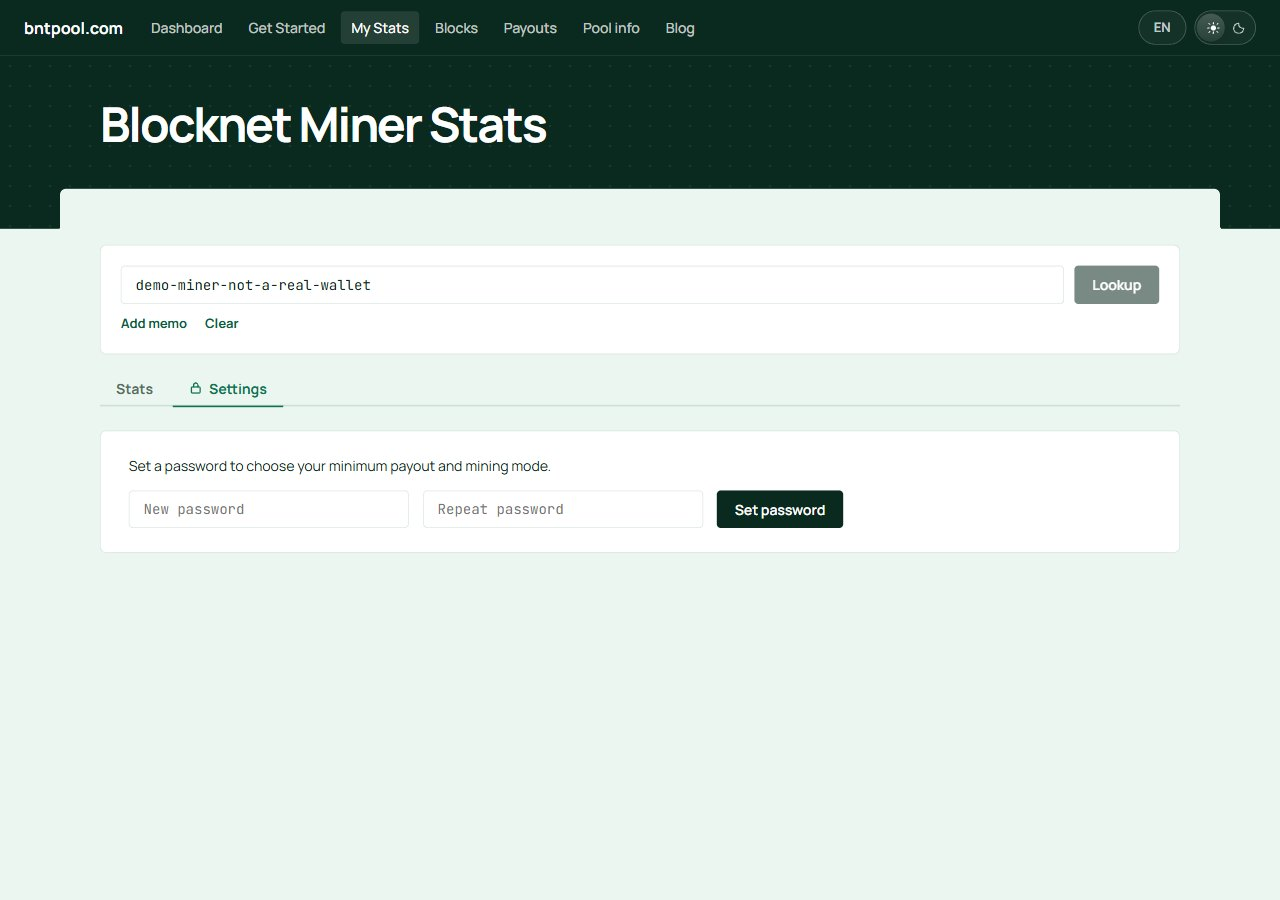
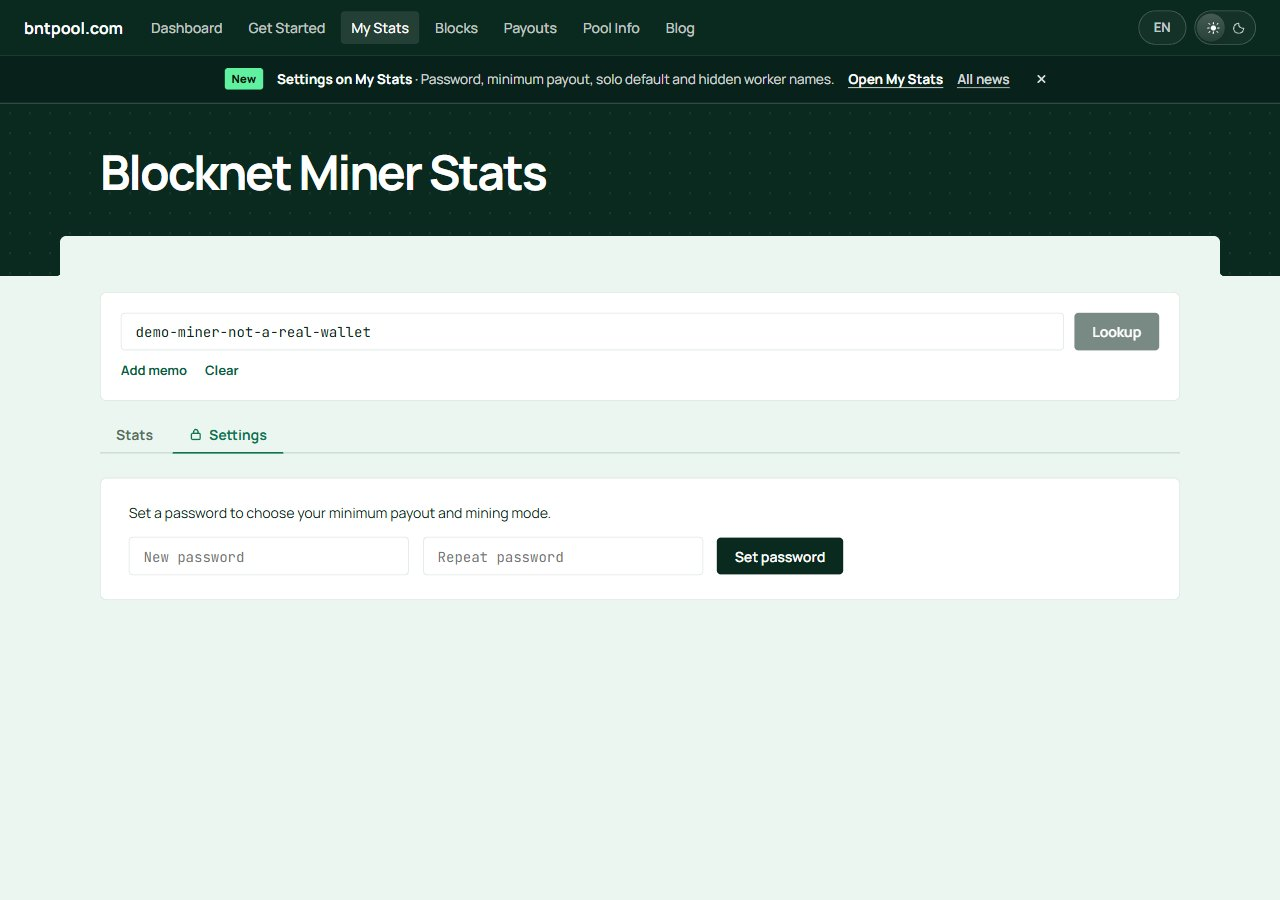
Show pool news as a strip under the menu and title the menu item Pool Info
The newest announcement from the last 30 days now sits in a one-line
strip under the menu on every page except the news archive, Admin and the
wallet, with a short summary, its link, All news and a dismiss button,
instead of a section on the front page. Dismissing hides it until a newer
item is published. Phones show the title, link and dismiss button.

The English menu item and page label read Pool Info.

Claude-Session: https://claude.ai/code/session_01X8haTGt1kjTYFpCBSubuty

diff --git a/frontend/src/styles.css b/frontend/src/styles.css
@@ -2571,19 +2571,19 @@ html { scroll-padding-top: 72px; }
   .settings-row-control .start-choice { width: auto; }
 }
 
-/* Pool news: recent items at the top of the front page, the /news archive, and a dot on the tab an item announces. */
-.news-head-actions { display: flex; align-items: center; gap: 10px; }
-.news-dismiss { display: grid; place-items: center; width: 28px; height: 28px; padding: 0; border: 0; border-radius: 4px; background: none; color: var(--muted); cursor: pointer; }
-.news-dismiss:hover { color: var(--text); background: var(--accent-light); }
+/* Pool news: a one-line strip under the menu with the newest item, the /news archive, and a dot on the tab an item announces. */
+.news-strip { background: #08211a; color: #ffffff; border-bottom: 1px solid rgba(255, 255, 255, 0.1); font-size: 13.5px; }
+.news-strip-inner { max-width: 1120px; margin: 0 auto; padding: 9px 20px; display: flex; flex-wrap: wrap; justify-content: center; align-items: center; gap: 6px 14px; }
+.news-strip-tag { padding: 2px 7px; border-radius: 3px; background: #5ff0a0; color: #04150c; font-size: 11.5px; font-weight: 800; line-height: 1.5; }
+.news-strip-text { min-width: 0; color: rgba(255, 255, 255, 0.82); }
+.news-strip-text strong { color: #ffffff; }
+.news-strip a { color: #ffffff; font-weight: 700; text-decoration: underline; text-underline-offset: 3px; }
+.news-strip a.news-strip-all { font-weight: 600; color: rgba(255, 255, 255, 0.82); }
+.news-strip a:focus-visible, .news-strip button:focus-visible { outline: 2px solid #ffffff; outline-offset: 2px; }
+.news-strip-close { margin-inline-start: 4px; display: grid; place-items: center; width: 28px; height: 28px; padding: 0; border: 0; border-radius: 4px; background: none; color: rgba(255, 255, 255, 0.82); cursor: pointer; }
+.news-strip-close:hover { color: #ffffff; background: rgba(255, 255, 255, 0.08); }
 .news-date { font-family: 'JetBrains Mono', system-ui, sans-serif; font-size: 13px; font-weight: 600; color: var(--muted); white-space: nowrap; }
-.news-rows { list-style: none; margin: 0; padding: 0; }
-.news-rows li { display: grid; grid-template-columns: 76px minmax(0, 1fr) auto; gap: 16px; align-items: baseline; padding: 14px 18px; border-bottom: 1px solid var(--border); }
-.news-rows li:last-child { border-bottom: 0; }
-.news-text { min-width: 0; }
-.news-text strong { display: block; font-size: 15px; }
-.news-text span { font-size: 14px; color: var(--muted); }
-.news-text .inline-code, .news-entry .inline-code { background: none; padding: 0; color: var(--text); font-size: 0.93em; }
-.news-rows a { font-size: 13px; font-weight: 700; color: var(--accent-strong); white-space: nowrap; }
+.news-entry .inline-code { background: none; padding: 0; color: var(--text); font-size: 0.93em; }
 .news-chip { display: inline-block; margin-inline-start: 10px; padding: 2px 7px; border-radius: 3px; background: var(--accent-light); color: var(--accent-strong); font-size: 11.5px; font-weight: 800; line-height: 1.5; vertical-align: 3px; }
 .news-timeline { list-style: none; margin: 0; padding: 0; }
 .news-timeline li { display: grid; grid-template-columns: 150px minmax(0, 1fr); gap: 20px; padding: 22px 24px; border-bottom: 1px solid var(--border); }
@@ -2595,6 +2595,9 @@ html { scroll-padding-top: 72px; }
 .news-entry a { font-size: 14px; font-weight: 700; color: var(--accent-strong); }
 .tab-new-dot { display: inline-block; width: 7px; height: 7px; margin-inline-start: 6px; border-radius: 50%; background: #16c172; vertical-align: 2px; }
 @media (max-width: 640px) {
-  .news-rows li { grid-template-columns: minmax(0, 1fr); gap: 4px; }
+  .news-strip-short, .news-strip a.news-strip-all { display: none; }
+  .news-strip-inner { flex-wrap: nowrap; justify-content: flex-start; padding: 9px 16px; gap: 10px; }
+  .news-strip-text { flex: 1; }
+  .news-strip-close { margin-inline-start: auto; }
   .news-timeline li { grid-template-columns: minmax(0, 1fr); gap: 6px; padding: 18px; }
 }

diff --git a/frontend/src/lib/news.ts b/frontend/src/lib/news.ts
@@ -5,6 +5,8 @@ export interface NewsItem {
   date: string;
   titleKey: string;
   bodyKey: string;
+  /** One short sentence for the news strip under the menu. */
+  shortKey: string;
   linkKey: string;
   href: string;
   /** The tab this item announces; it carries a "new" dot until opened. */
@@ -14,19 +16,17 @@ export interface NewsItem {
 export type Feature = 'settings';
 
 export const NEWS: readonly NewsItem[] = [
-  { date: '2026-11-04', titleKey: 'newsSettingsTitle', bodyKey: 'newsSettingsBody', linkKey: 'newsSettingsLink',
+  { date: '2026-11-04', titleKey: 'newsSettingsTitle', bodyKey: 'newsSettingsBody', shortKey: 'newsSettingsShort', linkKey: 'newsSettingsLink',
     href: '/stats#settings', feature: 'settings' },
-  { date: '2026-11-04', titleKey: 'newsSoloTitle', bodyKey: 'newsSoloBody', linkKey: 'newsSoloLink',
+  { date: '2026-11-04', titleKey: 'newsSoloTitle', bodyKey: 'newsSoloBody', shortKey: 'newsSoloShort', linkKey: 'newsSoloLink',
     href: '/blog/solo-mine-blocknet-on-bntpool/' },
-  { date: '2026-11-02', titleKey: 'newsMinPayoutTitle', bodyKey: 'newsMinPayoutBody', linkKey: 'newsMinPayoutLink',
+  { date: '2026-11-02', titleKey: 'newsMinPayoutTitle', bodyKey: 'newsMinPayoutBody', shortKey: 'newsMinPayoutShort', linkKey: 'newsMinPayoutLink',
     href: '/info#minimum-payout' },
 ];
 
 const DAY_MS = 86_400_000;
-/** Days an item stays on the front page and keeps its "New" marks. */
+/** Days an item stays in the news strip and keeps its "New" marks. */
 export const NEWS_FRESH_DAYS = 30;
-/** Most items the front page lists at once. */
-export const FRONT_PAGE_LIMIT = 3;
 
 const DISMISSED_KEY = 'pool_news_dismissed_v1';
 const SEEN_KEY = (feature: Feature) => `pool_news_seen_${feature}_v1`;
@@ -46,14 +46,13 @@ export function publishedNews(now = Date.now(), items: readonly NewsItem[] = NEW
 }
 
 /**
- * Items for the front page: fresh ones published after the day the visitor last dismissed the
- * section, newest first, at most FRONT_PAGE_LIMIT.
+ * The item the news strip shows: the newest fresh one published after the day the visitor last
+ * dismissed the strip, or null.
  */
-export function frontPageNews(now = Date.now(), dismissedThrough: string | null = readDismissed(),
-  items: readonly NewsItem[] = NEWS): NewsItem[] {
+export function stripNews(now = Date.now(), dismissedThrough: string | null = readDismissed(),
+  items: readonly NewsItem[] = NEWS): NewsItem | null {
   return publishedNews(now, items)
-    .filter((item) => isFresh(item, now) && (dismissedThrough == null || item.date > dismissedThrough))
-    .slice(0, FRONT_PAGE_LIMIT);
+    .find((item) => isFresh(item, now) && (dismissedThrough == null || item.date > dismissedThrough)) ?? null;
 }
 
 function storageGet(key: string): string | null {
@@ -77,10 +76,9 @@ function readDismissed(): string | null {
   return value && /^\d{4}-\d{2}-\d{2}$/.test(value) ? value : null;
 }
 
-/** Hides everything currently shown; a later item brings the section back. */
-export function dismissFrontPageNews(shown: readonly NewsItem[]) {
-  const newest = shown.reduce<string | null>((latest, item) => (latest == null || item.date > latest ? item.date : latest), null);
-  if (newest) storageSet(DISMISSED_KEY, newest);
+/** Hides the strip until an item newer than the dismissed one is published. */
+export function dismissStripNews(item: NewsItem) {
+  storageSet(DISMISSED_KEY, item.date);
 }
 
 /** Whether a tab should carry the "new" dot: a fresh item announces it and it hasn't been opened since. */

diff --git a/frontend/src/components/News.tsx b/frontend/src/components/News.tsx
@@ -1,7 +1,7 @@
 import { useState } from 'react';
 
 import { locale, localizePath, t, tx } from '../i18n';
-import { dismissFrontPageNews, frontPageNews, isFresh, newsTime, publishedNews, type NewsItem } from '../lib/news';
+import { dismissStripNews, isFresh, newsTime, publishedNews, stripNews, type NewsItem } from '../lib/news';
 
 const SOLO = <code key="solo" className="mono inline-code" dir="ltr">solo:</code>;
 
@@ -16,32 +16,23 @@ function newsDate(item: NewsItem, withYear: boolean): string {
 
 const body = (item: NewsItem) => tx(item.bodyKey, [SOLO]);
 
-/** Recent news at the top of the front page; hidden once nothing is fresh or the visitor dismisses it. */
-export function NewsSection() {
-  const [items, setItems] = useState(() => frontPageNews());
-  if (!items.length) return null;
+const CLOSE = <svg viewBox="0 0 16 16" width="14" height="14" aria-hidden="true"><path d="M4 4l8 8M12 4l-8 8" stroke="currentColor" strokeWidth="1.8" strokeLinecap="round" /></svg>;
+
+/** One line under the menu with the newest fresh item; hidden once nothing is fresh or the visitor dismisses it. */
+export function NewsStrip() {
+  const [item, setItem] = useState(() => stripNews());
+  if (!item) return null;
   return (
-    <section aria-labelledby="home-news-title">
-      <div className="home-head">
-        <h2 id="home-news-title">{t('newsNav')}</h2>
-        <div className="news-head-actions">
-          <a href={localizePath('/news')}>{t('newsAll')}</a>
-          <button type="button" className="news-dismiss" aria-label={t('newsDismiss')} title={t('newsDismiss')}
-            onClick={() => { dismissFrontPageNews(items); setItems([]); }}>
-            <svg viewBox="0 0 16 16" width="14" height="14" aria-hidden="true"><path d="M4 4l8 8M12 4l-8 8" stroke="currentColor" strokeWidth="1.8" strokeLinecap="round" /></svg>
-          </button>
-        </div>
+    <div className="news-strip" role="region" aria-label={t('newsNav')}>
+      <div className="news-strip-inner">
+        <span className="news-strip-tag">{t('newsNew')}</span>
+        <span className="news-strip-text"><strong>{t(item.titleKey)}</strong><span className="news-strip-short"><span aria-hidden="true"> · </span>{t(item.shortKey)}</span></span>
+        <a href={newsHref(item.href)}>{t(item.linkKey)}</a>
+        <a className="news-strip-all" href={localizePath('/news')}>{t('newsAll')}</a>
+        <button type="button" className="news-strip-close" aria-label={t('newsDismiss')} title={t('newsDismiss')}
+          onClick={() => { dismissStripNews(item); setItem(null); }}>{CLOSE}</button>
       </div>
-      <ol className="news-rows card">
-        {items.map((item) => (
-          <li key={item.titleKey}>
-            <time className="news-date" dateTime={item.date}>{newsDate(item, false)}</time>
-            <div className="news-text"><strong>{t(item.titleKey)}</strong><span>{body(item)}</span></div>
-            <a href={newsHref(item.href)}>{t(item.linkKey)}</a>
-          </li>
-        ))}
-      </ol>
-    </section>
+    </div>
   );
 }
 

diff --git a/frontend/src/App.tsx b/frontend/src/App.tsx
@@ -15,7 +15,7 @@ import { LuckPage } from './pages/LuckPage';
 import { PayoutsPage } from './pages/PayoutsPage';
 import { StartPage } from './pages/StartPage';
 import { InfoPage } from './pages/InfoPage';
-import { NewsPage } from './components/News';
+import { NewsPage, NewsStrip } from './components/News';
 import { AdminPage, StatsPage, WalletPage, PageBoundary, preloadPage } from './components/DeferredPages';
 import type { InfoResponse, Route } from './types';
 
@@ -28,8 +28,8 @@ export function App() {
     { route: 'payouts', label: t("m004") },
     { route: 'info', label: t('infoNav') },
   ];
-  // The news archive (the front page shows recent items), then pages node operators and the
-  // pool operator need and miners rarely do.
+  // The news archive (the strip under the menu shows the newest item), then pages node operators
+  // and the pool operator need and miners rarely do.
   const FOOTER_ITEMS: { route: Route; label: string }[] = [
     { route: 'news', label: t('newsNav') },
     { route: 'checkpoints', label: t("m007") },
@@ -347,6 +347,8 @@ export function App() {
           </button>
         </div>
       </nav>
+      {/* Not on the archive itself or the operator and wallet pages. */}
+      {!(isNotFound || route === 'news' || route === 'admin' || route === 'wallet') && <NewsStrip />}
 
       <div id="error-bar" style={{ display: errorMsg ? 'block' : 'none' }}>
         {errorMsg}

diff --git a/frontend/src/pages/DashboardPage.tsx b/frontend/src/pages/DashboardPage.tsx
@@ -1,4 +1,3 @@
-import { NewsSection } from '../components/News';
 import { t, tx, localizePath, locale } from '../i18n';
 import { useCallback, useEffect, useState } from 'react';
 
@@ -267,7 +266,6 @@ export function DashboardPage({ api, poolInfo, liveTick, theme, onJumpToStats }:
       </section>
 
       <div className="home-body">
-        <NewsSection />
         {!showMiner && (
           <section aria-labelledby="home-steps-title">
             <div className="home-head"><h2 id="home-steps-title">{t('m450')}</h2><a href={localizePath('/start')}>{t('setupGuide')}</a></div>

diff --git a/frontend/showcases/pool-news/README.md b/frontend/showcases/pool-news/README.md
@@ -1,16 +1,16 @@
 # Pool news
 
 Run `npm --prefix frontend run showcase:front` from the repository root. Open
-http://localhost:5201/showcases/front-page/?state=first&news=on for the front page with news, `state=below&news=on`
-for a returning miner, `state=stats&news=on` for the Settings tab dot and `state=news` for the archive. Add
-`theme=dark`, `lang=ar` or `chrome=off` as usual. Every state uses synthetic data.
+http://localhost:5201/showcases/front-page/?state=first&news=on for the front page with the news strip,
+`state=blocks&news=on` for an inner page, `state=stats&news=on` for the Settings tab dot and `state=news` for
+the archive. Add `theme=dark`, `lang=ar` or `chrome=off` as usual. Every state uses synthetic data.
 
-- Front page: a What's new section at the top of the page body lists up to three items from the last 30 days,
-  newest first, each with its date, a one-line summary and a link. All news opens `/news`; the dismiss button
-  hides everything shown, and the section returns only for an item published after the dismissed ones. With
-  nothing from the last 30 days the section is gone.
+- News strip: one line under the menu on every page except `/news`, Admin and the wallet. It shows the newest
+  item from the last 30 days: a New tag, the title, a short summary, the item's link, All news and a dismiss
+  button. Phones keep the tag, title, link and dismiss button. Dismissing hides it until an item newer than the
+  dismissed one is published; with nothing from the last 30 days there is no strip.
 - `/news`: every published item, newest first, with a New chip on items from the last 30 days. It is linked
-  from the footer (not the main menu), listed in the sitemap and prerendered in every language.
+  from the strip and the footer (not the main menu), listed in the sitemap and prerendered in every language.
 - Settings tab: an item can name the tab it announces. That tab carries a dot while the item is fresh, until
   the miner opens it once in that browser.
 
@@ -18,7 +18,6 @@ Items live in `src/lib/news.ts` (date, link, message keys); their text is in the
 item needs all 20 languages. Dismissals and opened tabs are stored per browser; blocked storage shows the news
 again on the next visit.
 
-The 14 captures in `captures/` cover the front page (first visit, returning miner, after dismissing, dark,
-Arabic, phone), the archive (light, dark, Arabic, phone) and My Stats (dot, phone, after opening Settings),
-at 1280 px and 390 px. Source: blocknet-pool branch pool-news on master 4bc10f3. Captured 2026-11-04 through the
-shared Playwright browser.
+The captures in `captures/` cover the strip (front page, returning miner, Blocks, after dismissing, dark,
+Arabic, phone), the archive (light, dark, Arabic, phone) and My Stats (dot, phone, after opening Settings), at
+1280 px and 390 px. Captured 2026-11-04 through the shared Playwright browser.

diff --git a/frontend/showcases/front-page/README.md b/frontend/showcases/front-page/README.md
@@ -34,10 +34,10 @@ pool, explorer or analytics endpoint. States:
 - `news`: What's new, the news archive linked from the footer, newest first, with a New chip on items
   from the last 30 days.
 
-Add `news=on` to any state to see pool news as a visitor who hasn't dismissed it: a What's new section at
-the top of the front page (up to three items from the last 30 days, with All news and a dismiss button) and
-a dot on the My Stats Settings tab until Settings is opened once. Without it every state shows the page as it
-looks once the news is dismissed. News captures live in `../pool-news/captures/`.
+Add `news=on` to any state to see pool news as a visitor who hasn't dismissed it: a one-line strip under the
+menu on every page except the archive, with the newest item from the last 30 days, its link, All news and a
+dismiss button, and a dot on the My Stats Settings tab until Settings is opened once. Without it every state
+shows the page as it looks once the news is dismissed. News captures live in `../pool-news/captures/`.
 
 Every page shares the front page's style: a Mint page under the dark green nav and a deep green
 title band whose bottom edge the page rises into as one sheet (slightly curved inside corners on
